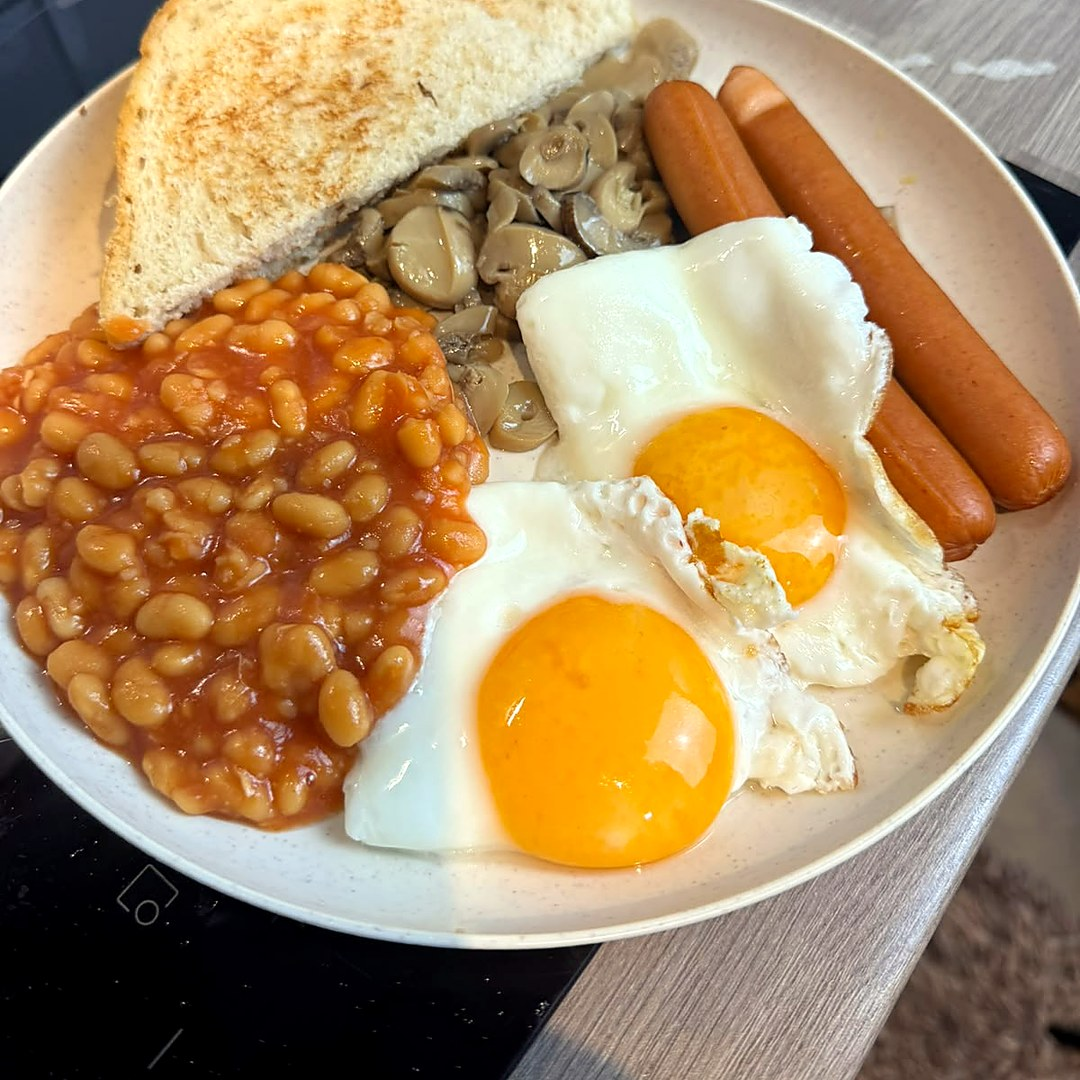
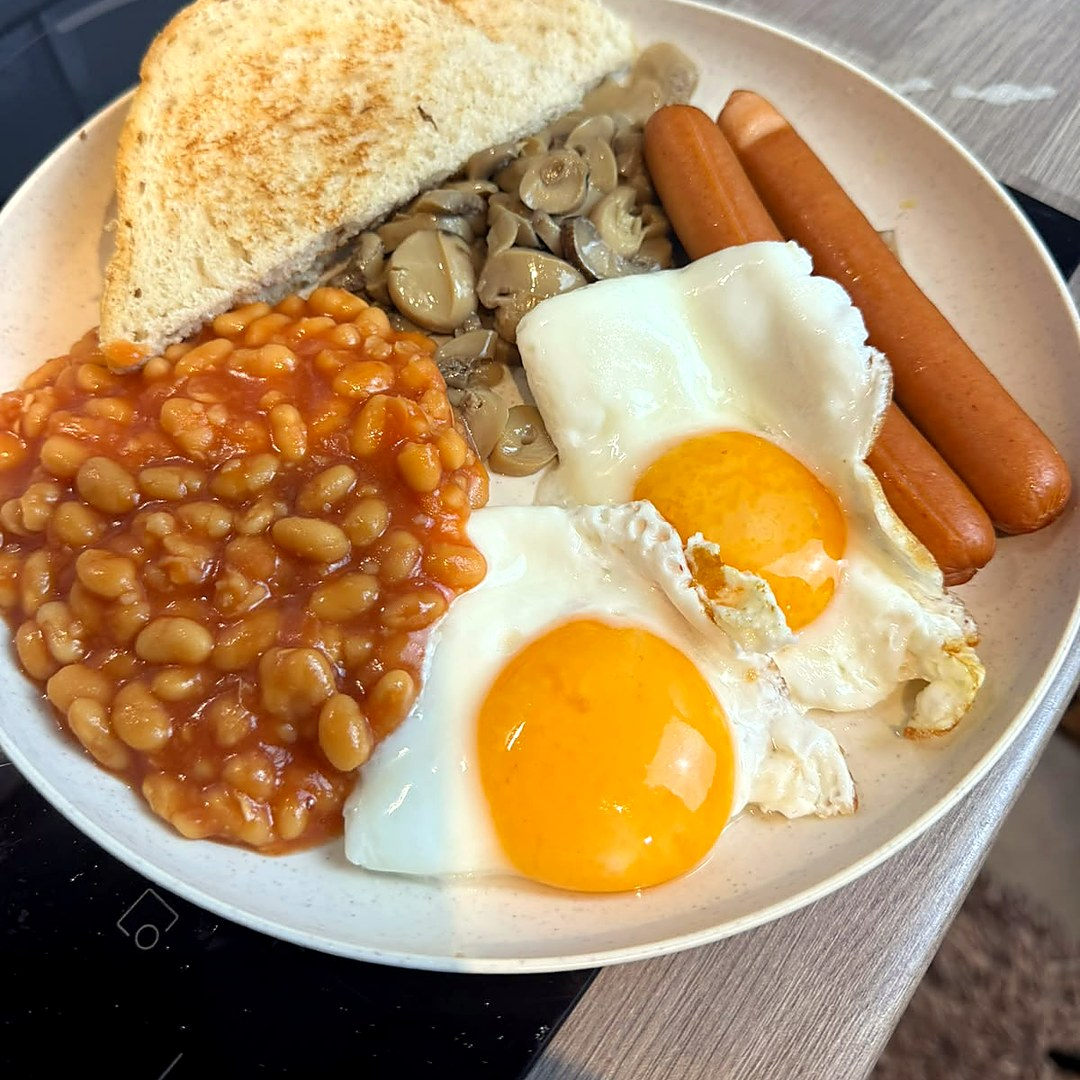
Use colour-corrected, tighter-cropped food photos on landing and thank-you pages
Claude-Session: https://claude.ai/code/session_0124YEeiGtAoGAACPSZwj6q6

diff --git a/v2/index.html b/v2/index.html
@@ -94,7 +94,7 @@ input[type=text]:focus,input[type=email]:focus{border-color:var(--butter-d);box-
 .sticky.show{transform:none}
 .sticky a{display:block;text-align:center;background:var(--butter);color:var(--ink);font-weight:700;text-decoration:none;border-radius:12px;padding:14px;min-height:48px;box-shadow:0 2px 0 var(--butter-d)}
 @media(min-width:820px){.sticky{display:none}}
-.pics{display:grid;grid-template-columns:1fr 1fr;gap:8px}.pics img{width:100%;height:auto;aspect-ratio:1;object-fit:cover;border-radius:12px;display:block;background:#efe3c8}
+.pics{display:grid;grid-template-columns:1fr 1fr;gap:8px}.pics img{width:100%;height:auto;aspect-ratio:1;object-fit:cover;object-position:center;border-radius:12px;display:block;background:#efe3c8}
 </style>
 </head>
 <body>
@@ -137,10 +137,10 @@ input[type=text]:focus,input[type=email]:focus{border-color:var(--butter-d);box-
 
 <section class="wrap about rv">
 <div class="pics">
-<img src="../img/sweet-sour.jpg" alt="Sweet and sour chicken with peppers and rice" width="640" height="640" loading="lazy">
-<img src="../img/strawberry-toast.jpg" alt="Toasted brioche topped with glossy sliced strawberries" width="640" height="640" loading="lazy">
-<img src="../img/english-breakfast.jpg" alt="Fried eggs, beans, mushrooms, sausages and toast" width="640" height="640" loading="lazy">
-<img src="../img/cinnamon-roll.jpg" alt="Cinnamon rolls with a baked meringue topping, cut open" width="640" height="640" loading="lazy">
+<img src="../img/web/sweet-sour.jpg" alt="Sweet and sour chicken with peppers and rice" width="720" height="720" loading="lazy">
+<img src="../img/web/strawberry-toast.jpg" alt="Toasted brioche topped with glossy sliced strawberries" width="720" height="720" loading="lazy">
+<img src="../img/web/english-breakfast.jpg" alt="Fried eggs, beans, mushrooms, sausages and toast" width="720" height="720" loading="lazy">
+<img src="../img/web/cinnamon-roll.jpg" alt="Cinnamon rolls with a baked meringue topping, cut open" width="720" height="720" loading="lazy">
 </div>
 <div>
 <h2>Hi, I'm Peter</h2>

diff --git a/index.html b/index.html
@@ -64,7 +64,7 @@ footer a{color:inherit}
  .about{grid-template-columns:1fr 1fr;align-items:center;gap:48px}
 }
 @media(prefers-reduced-motion:no-preference){button{transition:background .15s}}
-.pics{display:grid;grid-template-columns:1fr 1fr;gap:8px}.pics img{width:100%;height:auto;aspect-ratio:1;object-fit:cover;border-radius:12px;display:block;background:#efe3c8}
+.pics{display:grid;grid-template-columns:1fr 1fr;gap:8px}.pics img{width:100%;height:auto;aspect-ratio:1;object-fit:cover;object-position:center;border-radius:12px;display:block;background:#efe3c8}
 </style>
 </head>
 <body>
@@ -107,10 +107,10 @@ footer a{color:inherit}
 
 <section class="wrap about">
 <div class="pics">
-<img src="img/sweet-sour.jpg" alt="Sweet and sour chicken with peppers and rice" width="640" height="640" loading="lazy">
-<img src="img/strawberry-toast.jpg" alt="Toasted brioche topped with glossy sliced strawberries" width="640" height="640" loading="lazy">
-<img src="img/english-breakfast.jpg" alt="Fried eggs, beans, mushrooms, sausages and toast" width="640" height="640" loading="lazy">
-<img src="img/cinnamon-roll.jpg" alt="Cinnamon rolls with a baked meringue topping, cut open" width="640" height="640" loading="lazy">
+<img src="img/web/sweet-sour.jpg" alt="Sweet and sour chicken with peppers and rice" width="720" height="720" loading="lazy">
+<img src="img/web/strawberry-toast.jpg" alt="Toasted brioche topped with glossy sliced strawberries" width="720" height="720" loading="lazy">
+<img src="img/web/english-breakfast.jpg" alt="Fried eggs, beans, mushrooms, sausages and toast" width="720" height="720" loading="lazy">
+<img src="img/web/cinnamon-roll.jpg" alt="Cinnamon rolls with a baked meringue topping, cut open" width="720" height="720" loading="lazy">
 </div>
 <div>
 <h2>Hi, I'm Peter</h2>

diff --git a/v2/thank-you.html b/v2/thank-you.html
@@ -106,8 +106,8 @@ footer a{color:inherit}
 </ol>
 <div class="tip"><b>Can't see it?</b> Check your spam or promotions folder and mark the email as "not spam" so the next recipes reach you.</div>
 <div class="tyimg">
-<img src="../img/sweet-sour.jpg" alt="Sweet and sour chicken with rice" width="640" height="640" loading="lazy">
-<img src="../img/strawberry-toast.jpg" alt="Toast with glossy strawberries" width="640" height="640" loading="lazy">
+<img src="../img/web/sweet-sour.jpg" alt="Sweet and sour chicken with rice" width="720" height="720" loading="lazy">
+<img src="../img/web/strawberry-toast.jpg" alt="Toast with glossy strawberries" width="720" height="720" loading="lazy">
 </div>
 <p>If you cook one of the recipes, reply to the email and tell me which one. I read every reply.</p>
 <p class="sign">Peter 🧈</p>

diff --git a/thank-you.html b/thank-you.html
@@ -97,8 +97,8 @@ footer a{color:inherit}
 </ol>
 <div class="tip"><b>Can't see it?</b> Check your spam or promotions folder and mark the email as "not spam" so the next recipes reach you.</div>
 <div class="tyimg">
-<img src="img/sweet-sour.jpg" alt="Sweet and sour chicken with rice" width="640" height="640" loading="lazy">
-<img src="img/strawberry-toast.jpg" alt="Toast with glossy strawberries" width="640" height="640" loading="lazy">
+<img src="img/web/sweet-sour.jpg" alt="Sweet and sour chicken with rice" width="720" height="720" loading="lazy">
+<img src="img/web/strawberry-toast.jpg" alt="Toast with glossy strawberries" width="720" height="720" loading="lazy">
 </div>
 <p>If you cook one of the recipes, reply to the email and tell me which one. I read every reply.</p>
 <p class="sign">Peter 🧈</p>
